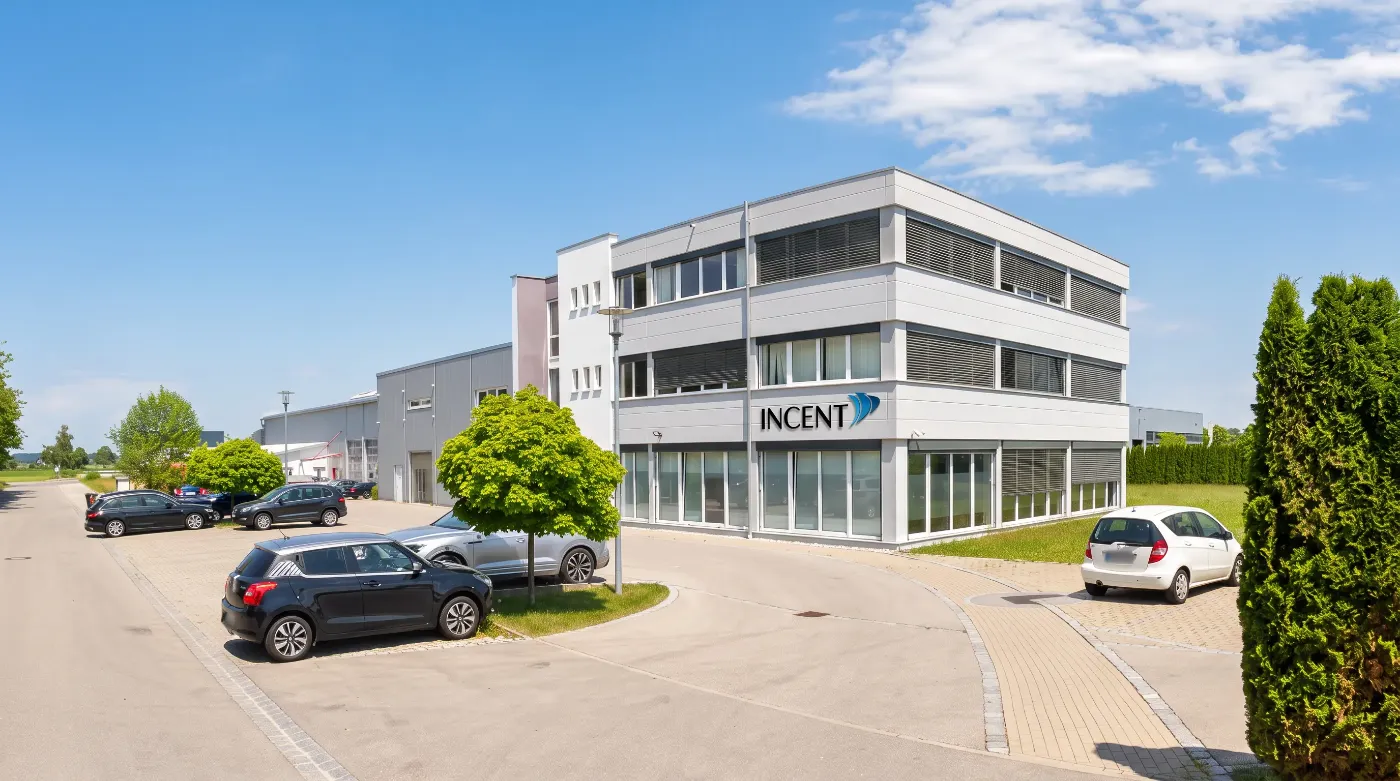
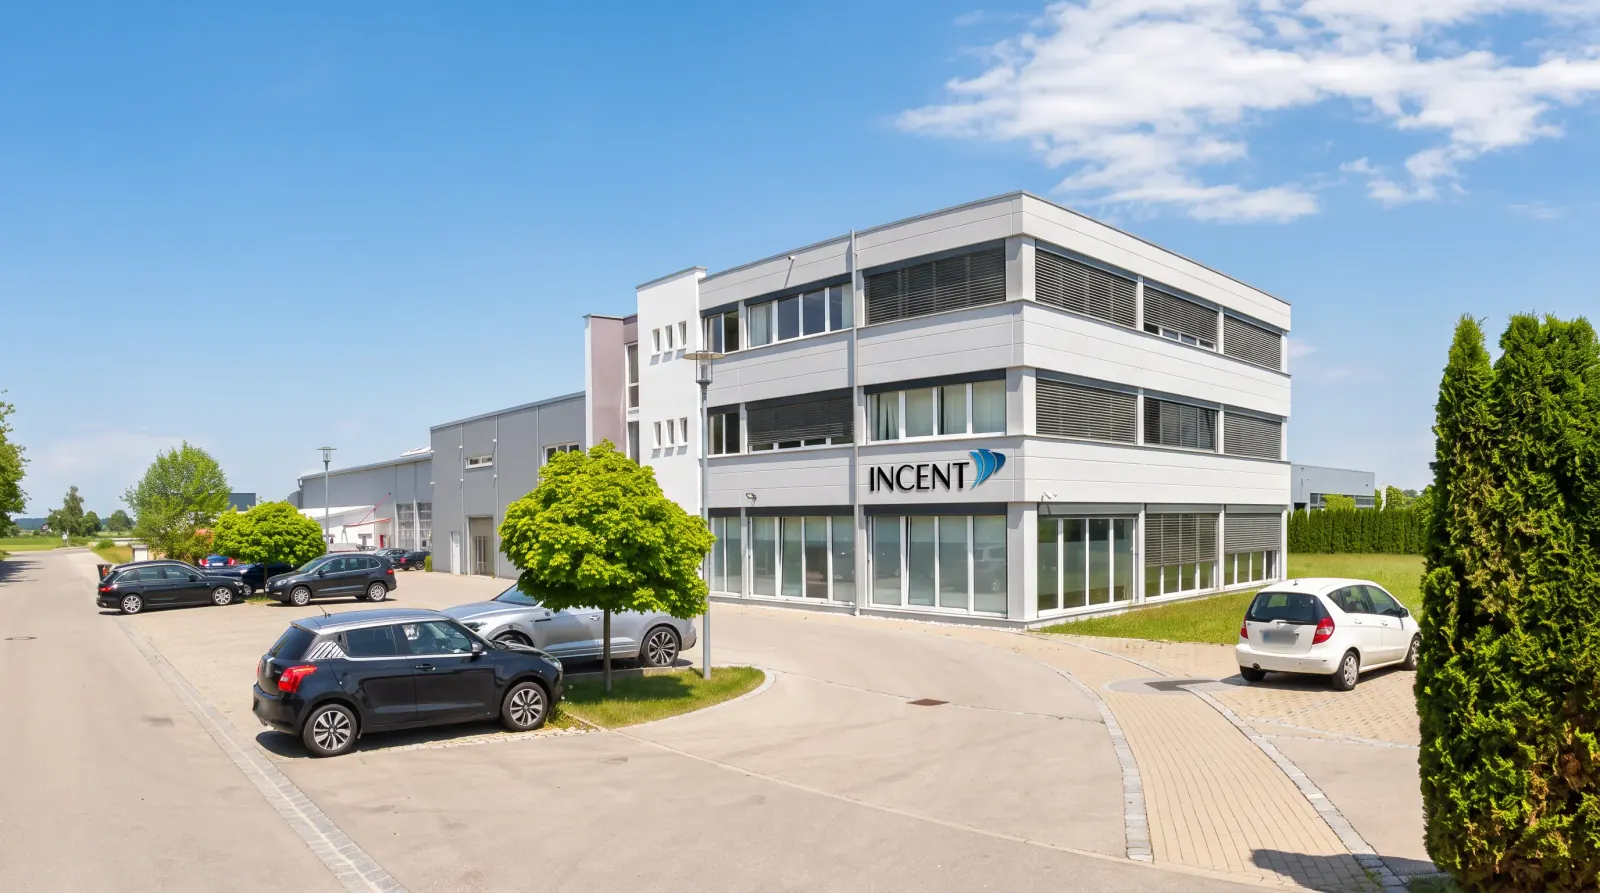
Bilder: große Uploads automatisch verkleinern (Veröffentlichung), Arbeitgeber- und Teamfoto auf Anzeigegröße
- tools/optimize-images.mjs (sharp): breiter als 1600 px oder schwerer als 250 KB → 1600 px, Qualität 78;
  kleine Bilder und Logos bleiben unangetastet, PNG verlustfrei
- GitHub Action: Schritt „Bilder optimieren“ vor dem Hochladen (Repository bleibt unverändert)
- hero-team.webp 685 → 202 KB, about-team.webp 393 → 139 KB (sichtbar gleich)

Claude-Session: https://claude.ai/code/session_01C3Z4WW59WJebwPL36rHPu8

diff --git a/README.md b/README.md
@@ -252,8 +252,10 @@ Ohne JavaScript bleiben alle Inhalte lesbar.
   alten WordPress); Apple-Touch-Icon `assets/img/apple-touch-icon.png`.
 - Alle Schriftschnitte des ersten Bildschirms werden vorgeladen (400/500/600/700) – die Navigation springt beim
   Laden nicht mehr (CLS).
-- Neue Bilder vor dem Hochladen auf die Anzeigegröße bringen (etwa doppelte Anzeigebreite, WebP): Das Teamfoto in
-  „Über uns“ ist von 2752 px/393 KB auf 1400 px/141 KB verkleinert (sichtbar gleich).
+- **Bilder:** Die Veröffentlichung verkleinert zu große Bilder automatisch (`tools/optimize-images.mjs` mit sharp:
+  breiter als 1600 px oder schwerer als 250 KB → 1600 px, WebP/JPEG Qualität 78; kleine Bilder und Logos bleiben
+  unangetastet, PNG verlustfrei). Hochgeladene Fotos dürfen also groß sein; im Repository sind die beiden neuen
+  Fotos schon verkleinert (Teamfoto „Über uns“ 393 → 139 KB, Arbeitgeber-Foto 685 → 202 KB, sichtbar gleich).
 
 ### Leistung (flüssig auch auf großen Desktop-Bildschirmen)
 
